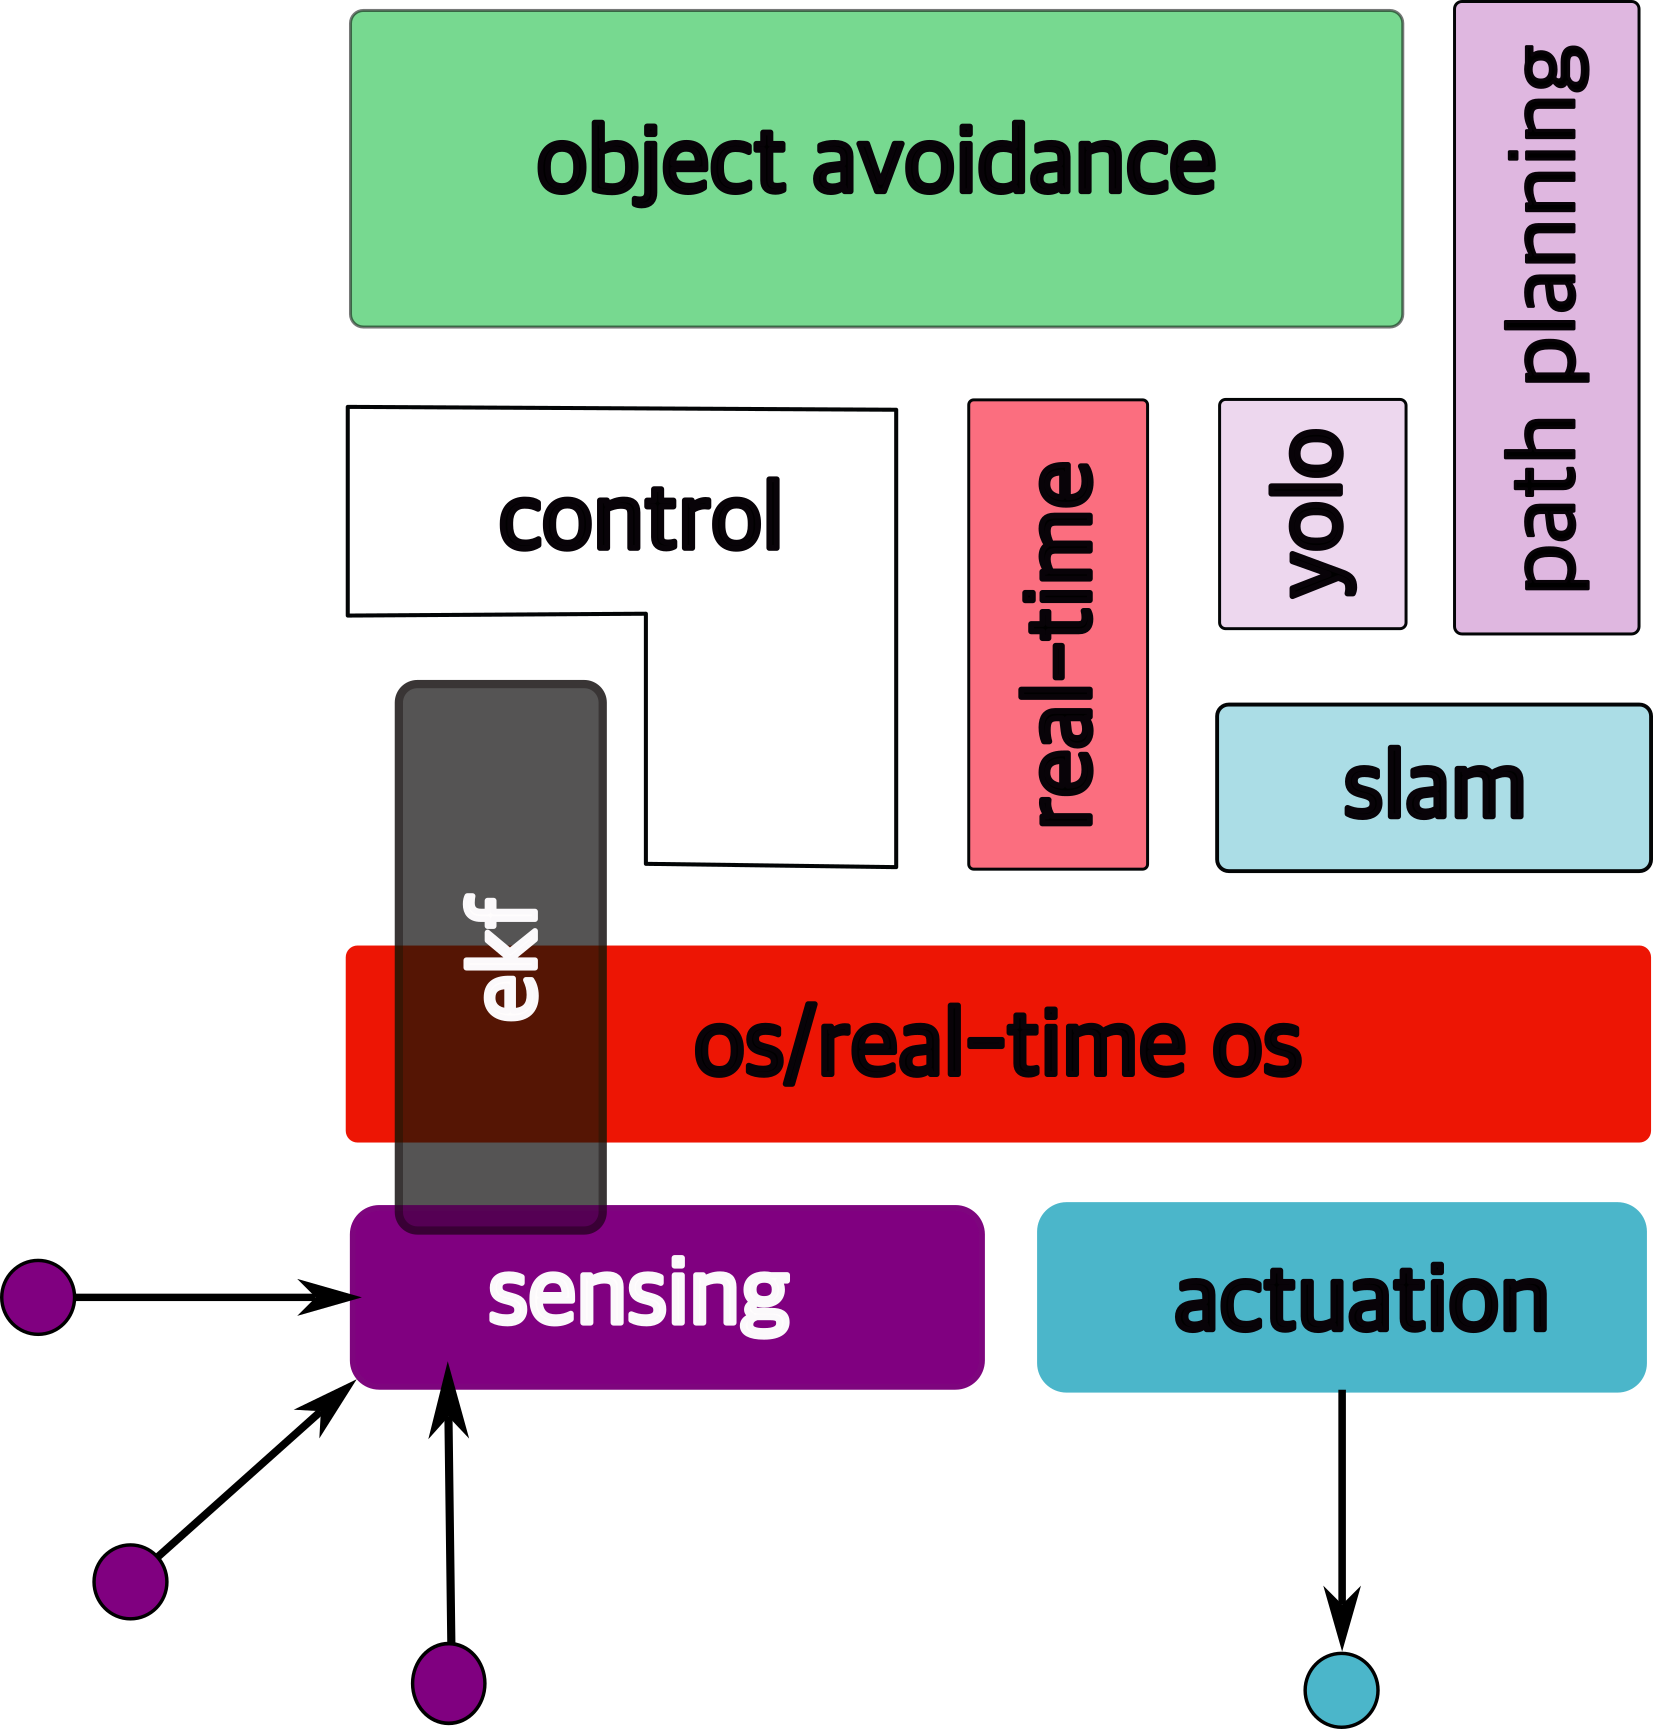
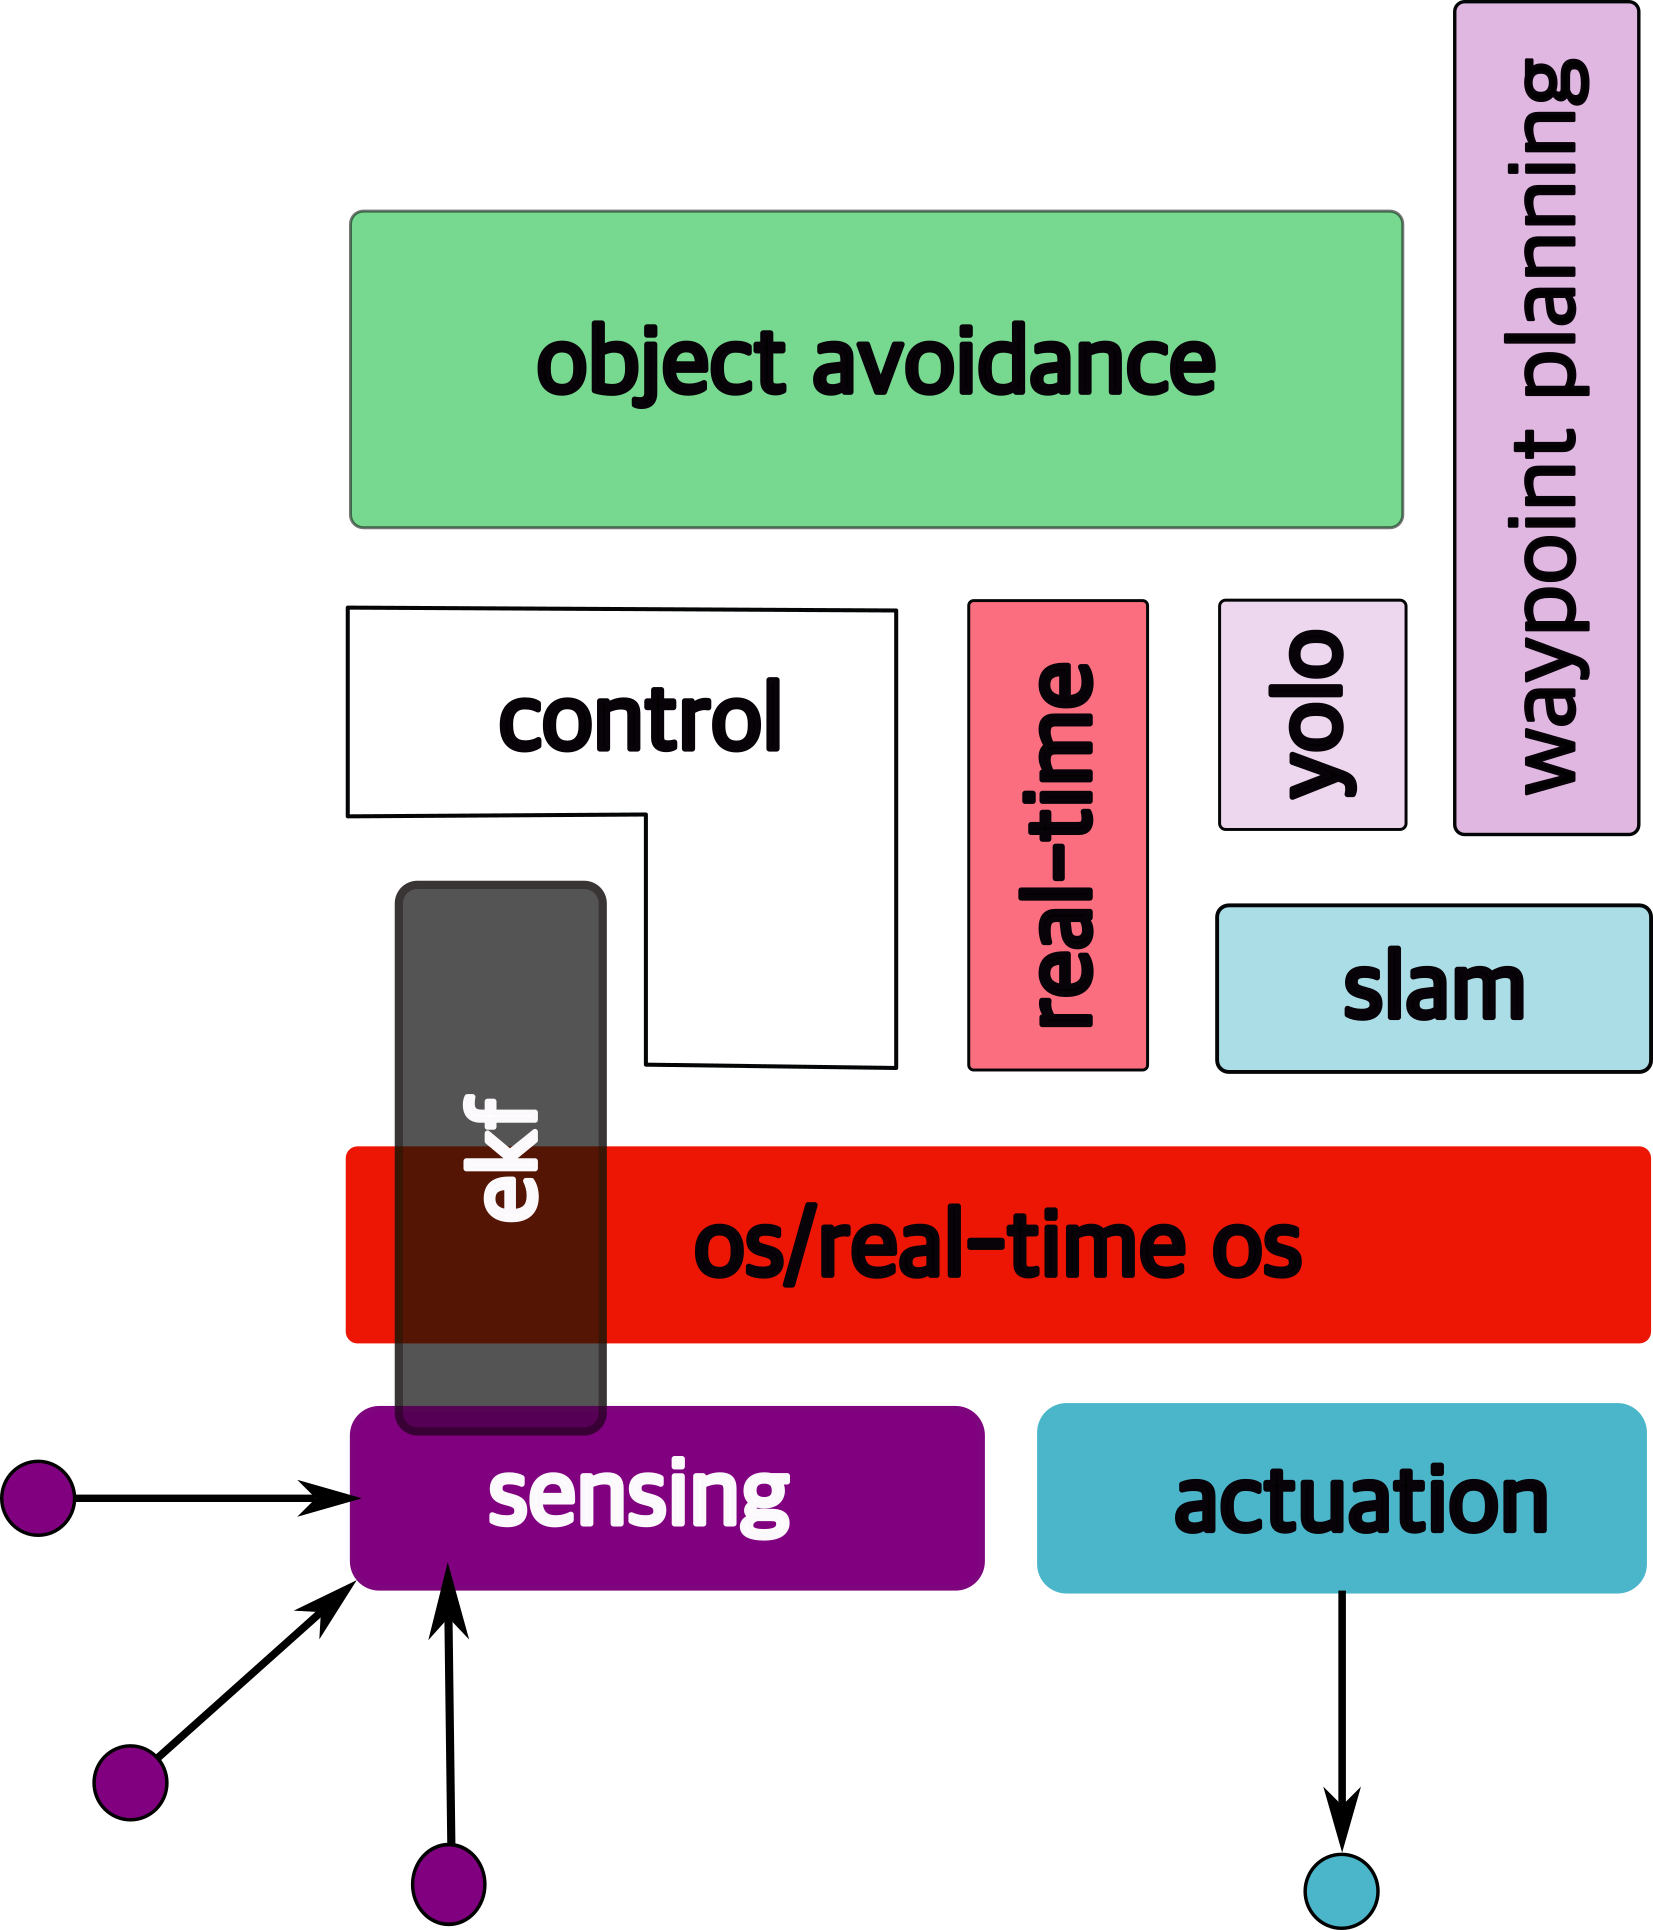
fixed issues with waypoint vs path planning

diff --git a/1.intro.html b/1.intro.html
@@ -753,11 +753,11 @@ figure out **where** we are
 
 -v-
 
-## path planning
+## waypoint detection
 
 <img src="./img/stack_architecture/stack_overview.9.png" height="600">
 
-how to move in the _right_ direction at the **micro** level
+how to move in the _right_ direction at the **micro** level, _i.e.,_ find **waypoints**
 
 -v-
 
@@ -791,11 +791,11 @@ avoid objects in **immediate path**
 
 -v-
 
-## waypoint planning
+## path planning
 
 <img src="./img/stack_architecture/stack_overview.12.png" height="650">
 
-how to get to **destination** at the **macro** level
+how to get to **destination** at the **macro** level &rarr; uses waypoints
 
 ---
 

diff --git a/index.html b/index.html
@@ -174,7 +174,7 @@ Undergraduate and graduate students in CS, ECE, Robotics, AI and even other depa
         </table>
 
         <p>
-		[Slides last built at <i>2025-01-14 15:38:38</i>.]<br />
+		[Slides last built at <i>2025-01-14 16:10:46</i>.]<br />
 	    <!--The PDF link generates a single-page document (including speaker notes) suitable for <a href="https://revealjs.com/pdf-export/" target="_blank">saving as a PDF for printing</a>.-->
 
         </p>
